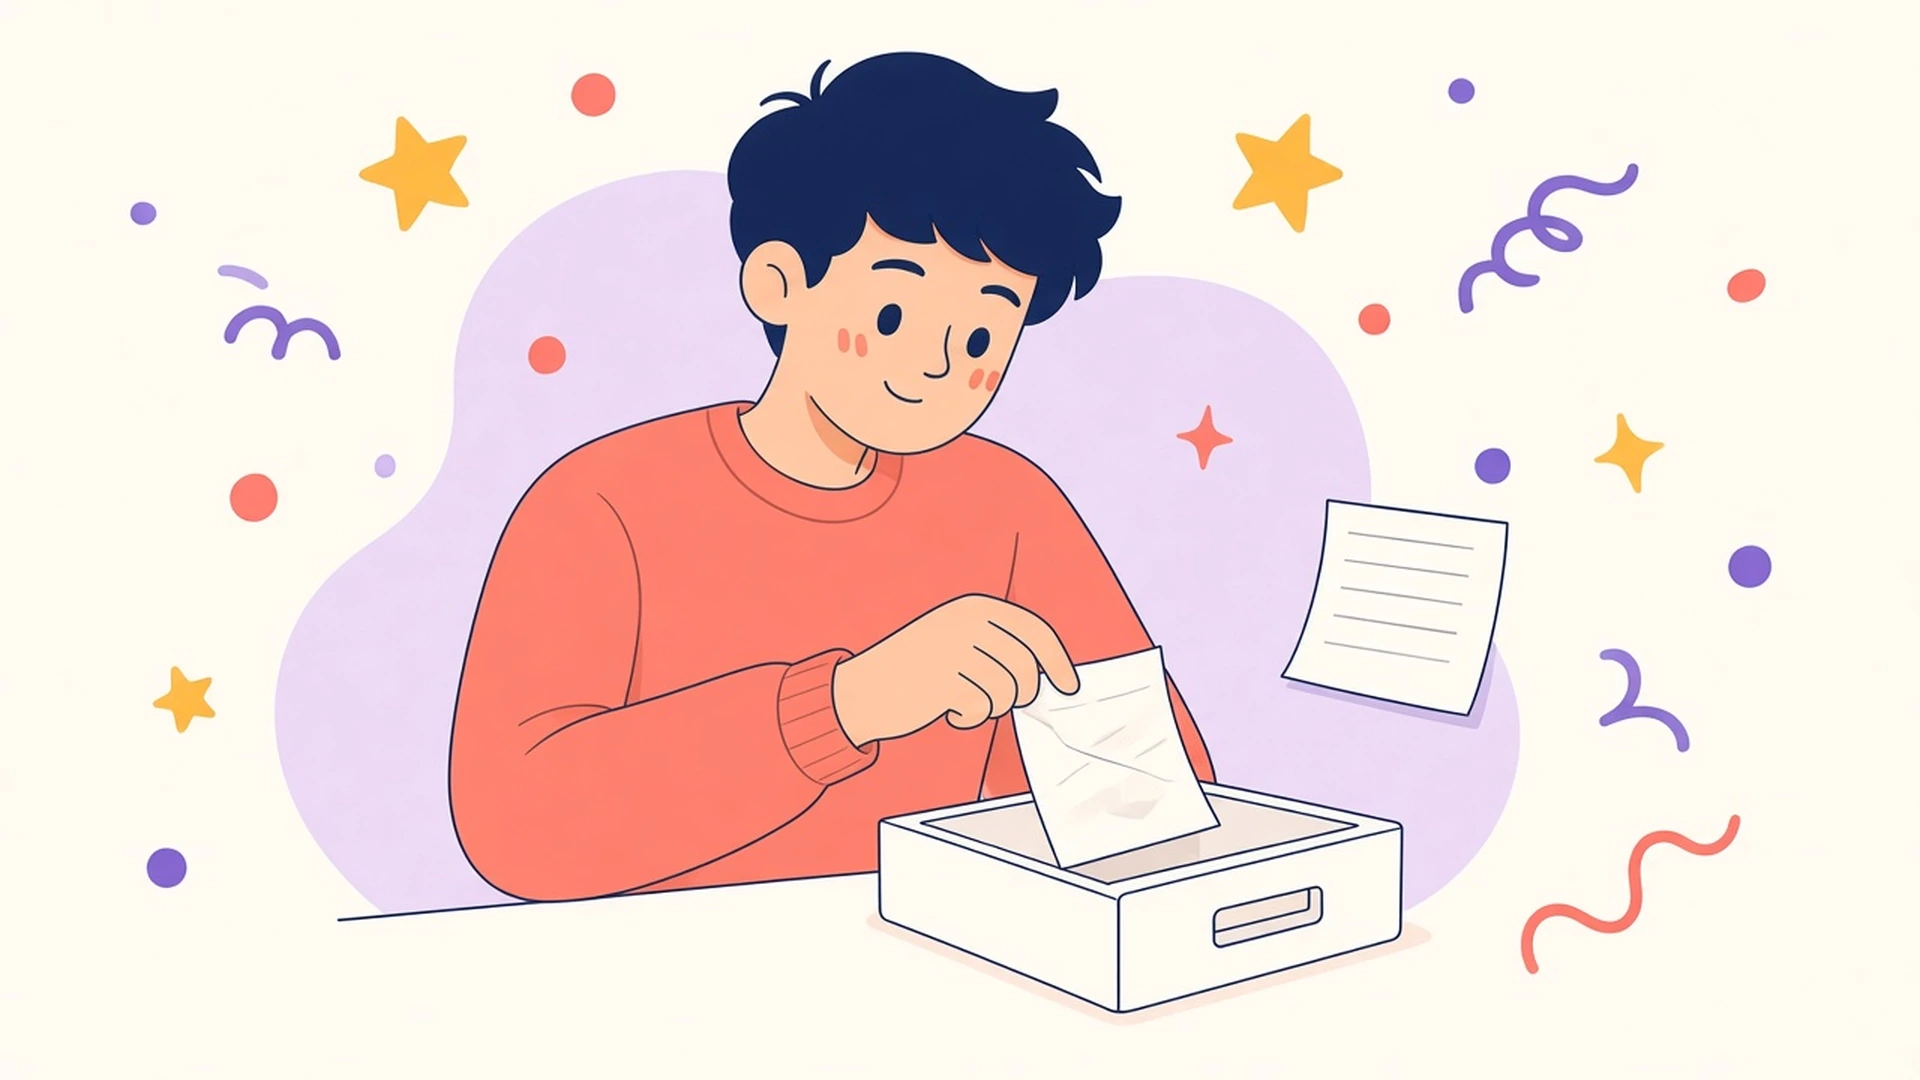
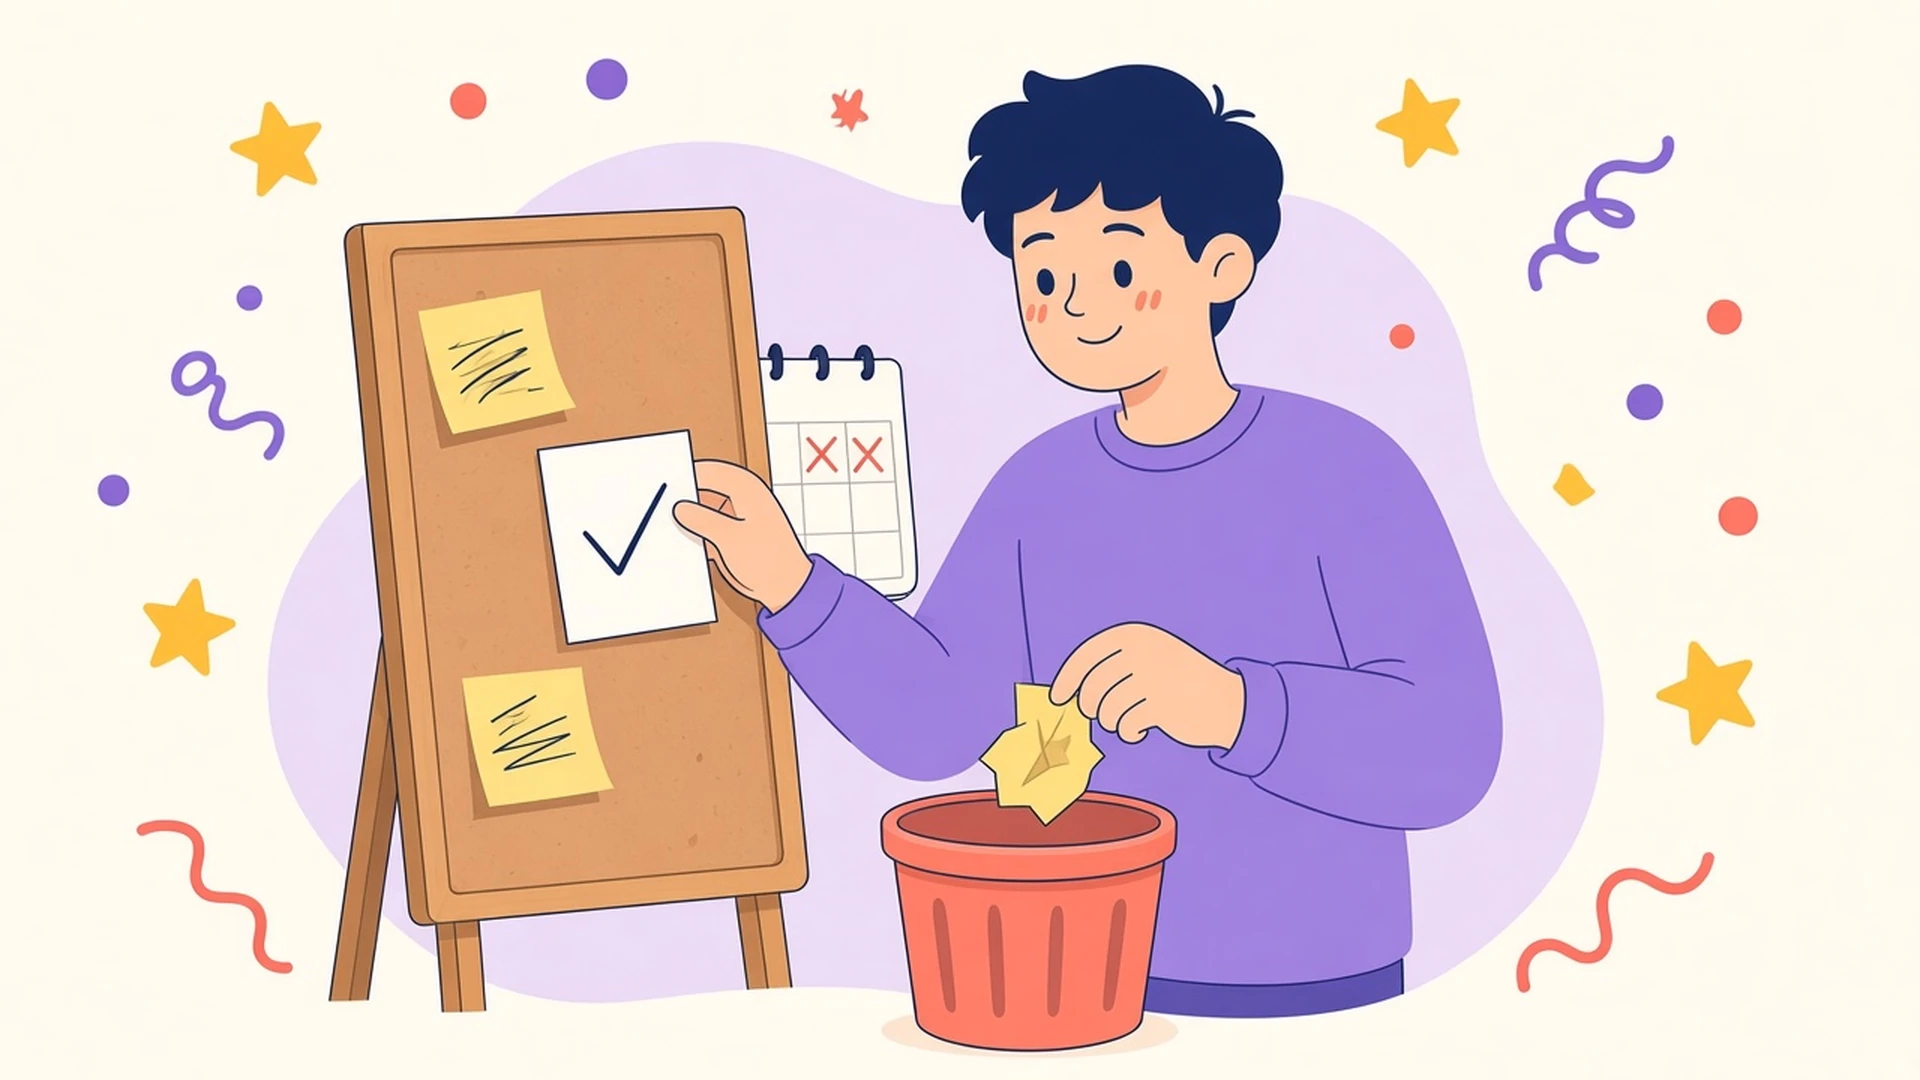
Style C hero swap: retire-old-facts distinct composition (#38)
Replace the coral desk-forward sticker with Brand Creator's standing purple-sweater corkboard composition and align the hero alt. Pad stays #FDFAF5. Ask-for-the-outcome is unchanged.

diff --git a/content/posts.ts b/content/posts.ts
@@ -1592,7 +1592,7 @@ export const posts: Post[] = [
     dek: "When a memory fact changes, retire the old note.",
     hero: {
       src: "/art/digest/retire-old-facts-when-they-change-sticker.webp",
-      alt: "A person in a coral sweater retiring an old sticky note into a discard tray while a fresh note stays nearby, navy outlines, filled navy hair.",
+      alt: "A person in a purple sweater pinning a fresh checkmark card to a corkboard while dropping an old sticky into a coral bin, navy outlines, filled navy hair.",
       pad: "#FDFAF5",
     },
     date: "2026-10-30",
